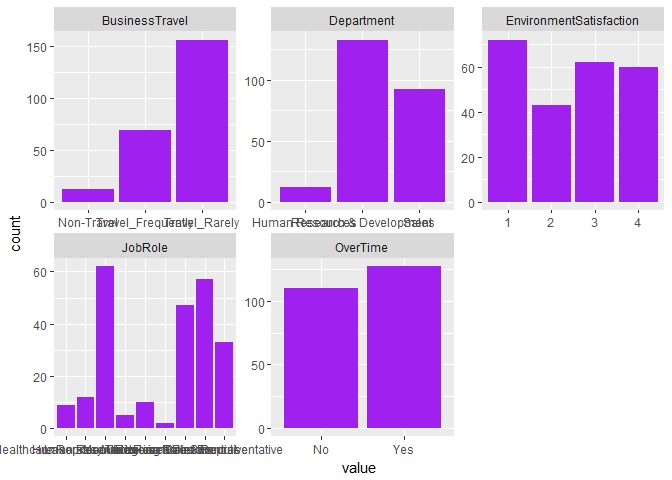
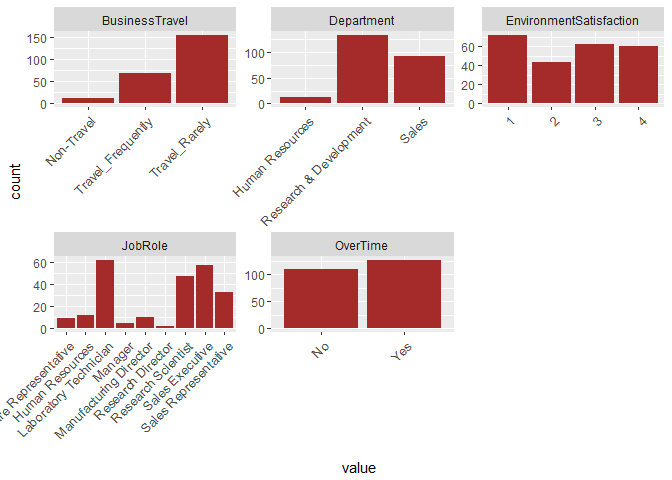
Modify Univariate by jub function group

diff --git a/CaseStudy2.md b/CaseStudy2.md
@@ -98,7 +98,8 @@ attrition_data[uni_1_cols] %>%
  gather() %>%     
  ggplot(aes(x = value)) +                     
  facet_wrap(~ key, scales = "free") +  
- geom_bar(fill = "purple")
+ geom_bar(fill="brown") +
+ theme(axis.text.x = element_text(size  = 10, angle = 45,hjust = 1,vjust = 1))
 ```
 
     Warning: attributes are not identical across measure variables;
